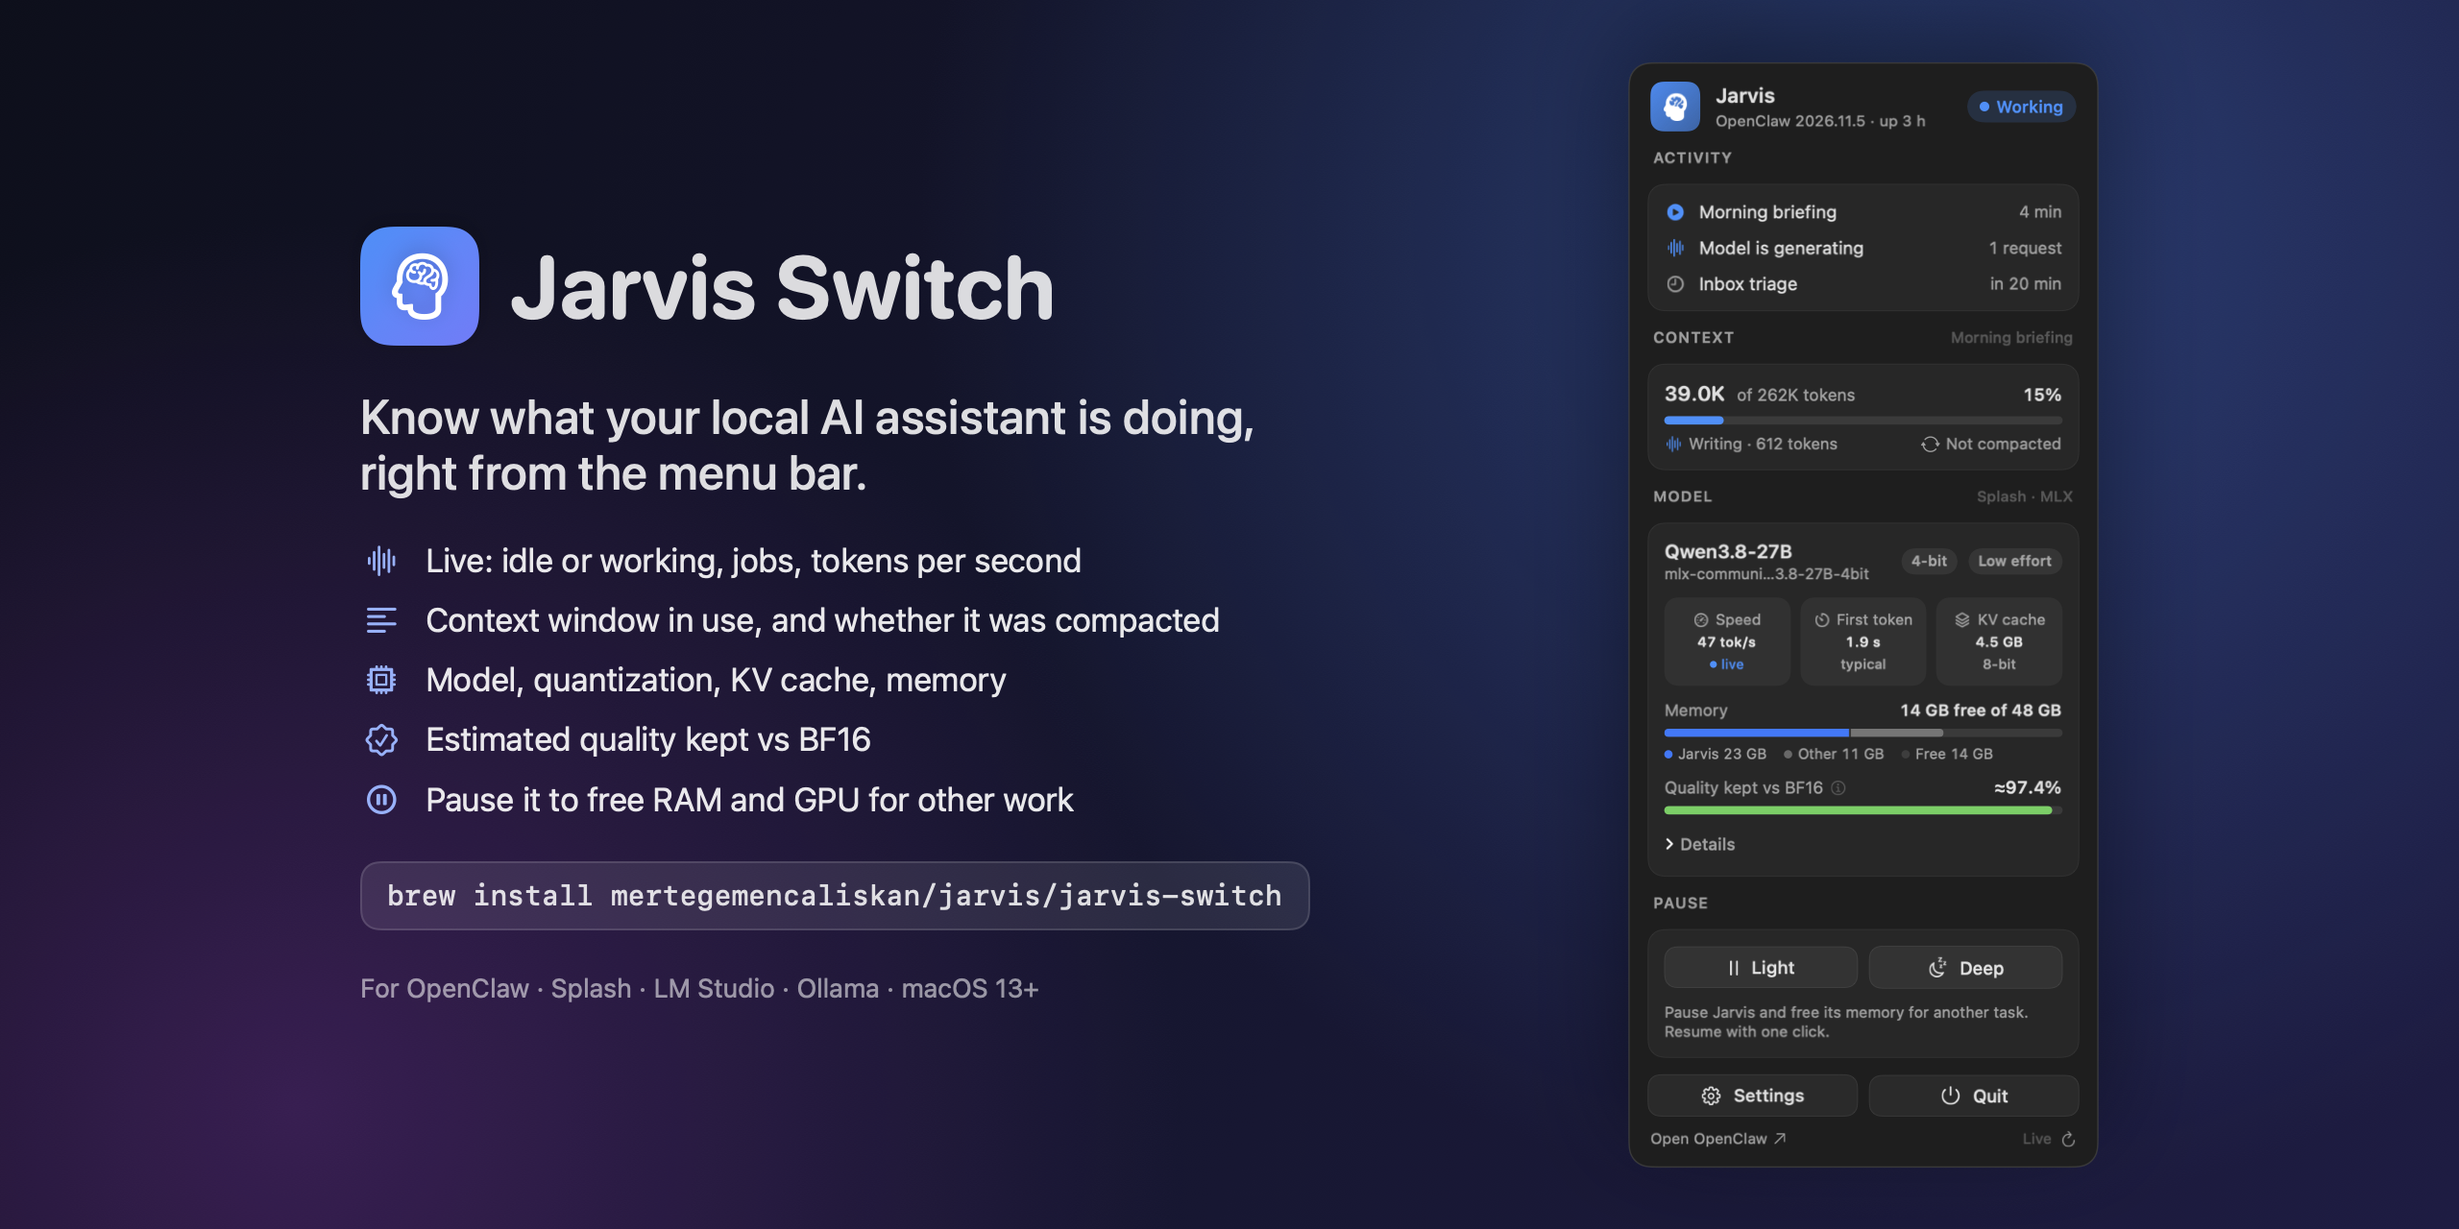
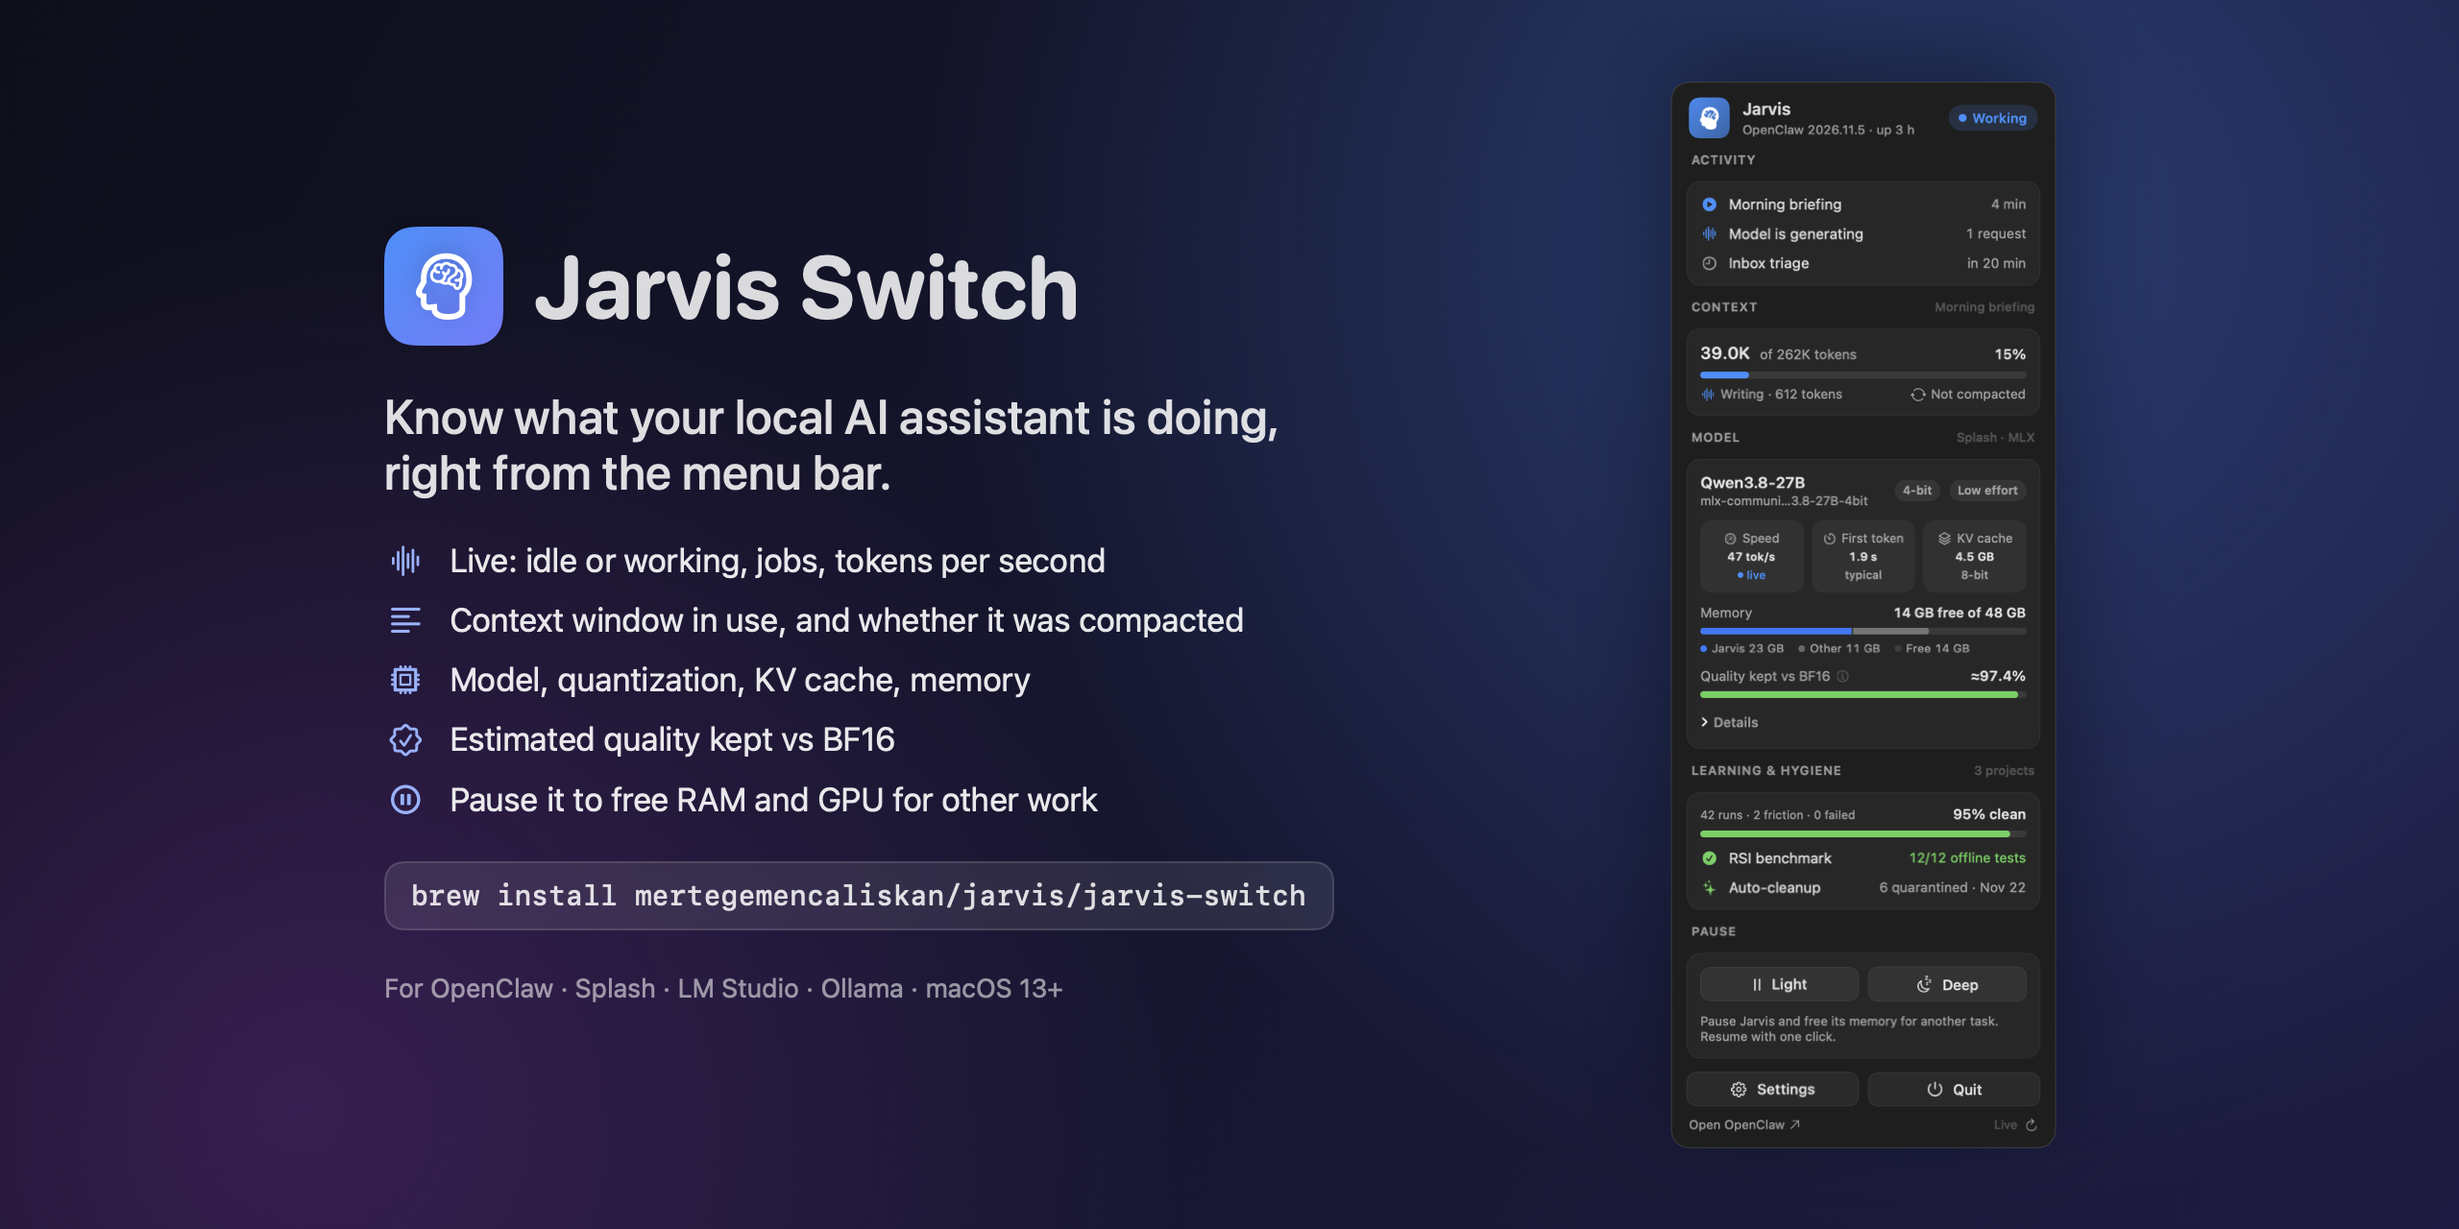
Add native Learning & Hygiene card to macOS menu-bar panel

diff --git a/Sources/Learning.swift b/Sources/Learning.swift
@@ -1,0 +1,102 @@
+import Foundation
+
+/// Optional 24h learning, benchmark and auto-cleanup summary read from local assistant logs.
+struct LearningStatus: Equatable {
+    var windowHours: Int = 24
+    var totalRuns: Int = 0
+    var cleanPercent: Int = 100
+    var frictionRuns: Int = 0
+    var failedRuns: Int = 0
+    var evalPassed: Int?
+    var evalTotal: Int?
+    var lastCleanupDate: String?
+    var lastCleanupCount: Int = 0
+    var projectsTracked: Int = 0
+}
+
+/// Read-only probe for local learning and hygiene telemetry. Returns nil when logs/run_metrics.jsonl
+/// is absent so standard OpenClaw setups stay clean without extra configuration.
+func probeLearning(metricsDir: String?) -> LearningStatus? {
+    guard let base = metricsDir, !base.isEmpty else { return nil }
+    let fm = FileManager.default
+    let metricsPath = (base as NSString).appendingPathComponent("logs/run_metrics.jsonl")
+    guard fm.fileExists(atPath: metricsPath) else { return nil }
+
+    let cutoffMs = (Date().timeIntervalSince1970 - 24 * 3600) * 1000
+    var total = 0
+    var friction = 0
+    var failed = 0
+
+    if let text = try? String(contentsOfFile: metricsPath, encoding: .utf8) {
+        for raw in text.split(separator: "\n", omittingEmptySubsequences: true) {
+            let trimmed = raw.trimmingCharacters(in: .whitespacesAndNewlines)
+            guard !trimmed.isEmpty,
+                  let rec = parseJSON(Data(trimmed.utf8)) as? [String: Any] else { continue }
+            guard let endMs = num(rec["end_ms"]), endMs >= cutoffMs else { continue }
+            total += 1
+            if (num(rec["friction_score"]) ?? 0) > 0 { friction += 1 }
+            if let reasons = rec["stop_reasons"] as? [String],
+               reasons.contains(where: { $0 == "error" || $0 == "aborted" }) {
+                failed += 1
+            }
+        }
+    }
+
+    var lastDate: String? = nil
+    var lastCount = 0
+    let receiptsPath = (base as NSString).appendingPathComponent("logs/cleanup_receipts.jsonl")
+    if let text = try? String(contentsOfFile: receiptsPath, encoding: .utf8) {
+        let lines = text.split(separator: "\n", omittingEmptySubsequences: true)
+        var byDate: [String: Int] = [:]
+        for raw in lines.suffix(500) {
+            let trimmed = raw.trimmingCharacters(in: .whitespacesAndNewlines)
+            guard !trimmed.isEmpty,
+                  let rec = parseJSON(Data(trimmed.utf8)) as? [String: Any],
+                  let d = rec["date"] as? String, !d.isEmpty else { continue }
+            byDate[d, default: 0] += 1
+        }
+        if let maxDate = byDate.keys.max() {
+            lastDate = maxDate
+            lastCount = byDate[maxDate] ?? 0
+        }
+    }
+
+    var projectsTracked = 0
+    let regPath = (base as NSString).appendingPathComponent("state/cleanup_registry.json")
+    if let data = fm.contents(atPath: regPath),
+       let reg = parseJSON(data) as? [String: Any],
+       let projects = reg["projects"] as? [String: Any] {
+        projectsTracked = projects.count
+    }
+
+    var evalPassed: Int? = nil
+    var evalTotal: Int? = nil
+    let evalPath = (base as NSString).appendingPathComponent("logs/eval_history.jsonl")
+    if let text = try? String(contentsOfFile: evalPath, encoding: .utf8) {
+        let lines = text.split(separator: "\n", omittingEmptySubsequences: true)
+        for raw in lines.suffix(50).reversed() {
+            let trimmed = raw.trimmingCharacters(in: .whitespacesAndNewlines)
+            guard !trimmed.isEmpty,
+                  let rec = parseJSON(Data(trimmed.utf8)) as? [String: Any] else { continue }
+            if (rec["mode"] as? String) == "full", (rec["note"] as? String) != "reverted" {
+                evalPassed = num(rec["passed"]).map(Int.init)
+                evalTotal = num(rec["total"]).map(Int.init)
+                break
+            }
+        }
+    }
+
+    let cleanPercent = total > 0 ? Int((Double(total - friction) * 100.0 / Double(total)).rounded()) : 100
+    return LearningStatus(
+        windowHours: 24,
+        totalRuns: total,
+        cleanPercent: cleanPercent,
+        frictionRuns: friction,
+        failedRuns: failed,
+        evalPassed: evalPassed,
+        evalTotal: evalTotal,
+        lastCleanupDate: lastDate,
+        lastCleanupCount: lastCount,
+        projectsTracked: projectsTracked
+    )
+}

diff --git a/Sources/Panel.swift b/Sources/Panel.swift
@@ -44,6 +44,11 @@ struct PanelView: View {
             }
             SectionHeader(title: "Model", trailing: store.snap.model.reachable ? runtimeShort(store.snap.model.runtime) : nil)
             modelCard
+            if let l = store.snap.learning {
+                SectionHeader(title: "Learning & Hygiene",
+                              trailing: l.projectsTracked > 0 ? "\(l.projectsTracked) projects" : "\(l.windowHours)h")
+                learningCard(l)
+            }
             if store.resolved.offloadConfigured {
                 SectionHeader(title: "Pause")
                 pauseCard
@@ -272,6 +277,54 @@ struct PanelView: View {
         if let h = m.cacheHitRate { DetailRow(label: "Prompt cache", value: String(format: "%.0f%% hits", h * 100)) }
         if let sp = m.speculative { DetailRow(label: "Speculative", value: sp ? "On (draft model)" : "Off") }
         if m.weightsReleased { DetailRow(label: "Weights", value: "Released from memory") }
+    }
+
+    // MARK: learning
+
+    private func learningCard(_ l: LearningStatus) -> some View {
+        Card {
+            VStack(alignment: .leading, spacing: 7) {
+                HStack(alignment: .firstTextBaseline, spacing: 6) {
+                    Text("\(l.totalRuns) runs · \(l.frictionRuns) friction · \(l.failedRuns) failed")
+                        .font(.system(size: 12)).foregroundStyle(.secondary).lineLimit(1).minimumScaleFactor(0.85)
+                    Spacer(minLength: 4)
+                    Text("\(l.cleanPercent)% clean")
+                        .font(.system(size: 12.5, weight: .semibold)).monospacedDigit()
+                }
+                Meter(fraction: Double(l.cleanPercent) / 100, color: learningColor(l.cleanPercent))
+            }
+            if let ep = l.evalPassed, let et = l.evalTotal {
+                let ok = ep == et
+                InfoRow(icon: ok ? "checkmark.circle.fill" : "exclamationmark.triangle.fill",
+                        title: "RSI benchmark",
+                        tint: ok ? .green : .orange,
+                        trailing: "\(ep)/\(et) offline tests",
+                        trailingColor: ok ? .green : .orange)
+            }
+            if let d = l.lastCleanupDate {
+                InfoRow(icon: "sparkles",
+                        title: "Auto-cleanup",
+                        tint: .green,
+                        trailing: "\(l.lastCleanupCount) quarantined · \(shortISODate(d))")
+            }
+        }
+    }
+
+    private func learningColor(_ pct: Int) -> Color {
+        if pct >= 80 { return .green }
+        if pct >= 50 { return .blue }
+        return .orange
+    }
+
+    private func shortISODate(_ iso: String) -> String {
+        let p = DateFormatter()
+        p.locale = Locale(identifier: "en_US_POSIX")
+        p.dateFormat = "yyyy-MM-dd"
+        guard let date = p.date(from: iso) else { return iso }
+        let out = DateFormatter()
+        out.locale = Locale(identifier: "en_US_POSIX")
+        out.dateFormat = "MMM d"
+        return out.string(from: date)
     }
 
     // MARK: pause

diff --git a/Sources/CLI.swift b/Sources/CLI.swift
@@ -12,6 +12,7 @@ func probeOnce(_ r: Resolved, sampleSpeed: Bool = true) -> Snapshot {
     s.model = probeModel(baseURL: active.baseURL, configuredModel: active.alias)
     s.offload = readOffloadState(r.pauseMarker)
     s.memory = systemMemory()
+    s.learning = probeLearning(metricsDir: r.metricsDir)
     s.updatedAt = Date()
     if sampleSpeed && s.model.requests.contains(where: { $0.phase == "decode" }) {
         Thread.sleep(forTimeInterval: 1)
@@ -108,6 +109,21 @@ func statusJSON(name: String, kind: Kind, _ s: Snapshot, offloadConfigured: Bool
         out["memory"] = mm
     }
 
+    if let l = s.learning {
+        var lr: [String: Any] = [
+            "windowHours": l.windowHours,
+            "totalRuns": l.totalRuns,
+            "cleanPercent": l.cleanPercent,
+            "frictionRuns": l.frictionRuns,
+            "failedRuns": l.failedRuns,
+            "projectsTracked": l.projectsTracked,
+        ]
+        if let ep = l.evalPassed { lr["evalPassed"] = ep }
+        if let et = l.evalTotal { lr["evalTotal"] = et }
+        if let d = l.lastCleanupDate { lr["lastCleanupDate"] = d; lr["lastCleanupCount"] = l.lastCleanupCount }
+        out["learning"] = lr
+    }
+
     var off: [String: Any] = ["configured": offloadConfigured, "active": s.offload.active]
     if let v = s.offload.mode { off["mode"] = v }
     if let v = s.offload.purpose { off["purpose"] = v }
@@ -175,6 +191,13 @@ func statusText(name: String, kind: Kind, _ s: Snapshot, offloadConfigured: Bool
         var line = "Memory: \(formatBytes(mem.free)) free of \(formatBytes(mem.total))"
         if let j = m.processFootprint ?? m.memoryInUse { line += " · \(name) \(formatBytes(min(j, mem.used))) · other \(formatBytes(max(0, mem.used - min(j, mem.used))))" }
         out.append(line)
+    }
+    if let l = s.learning {
+        let scope = l.projectsTracked > 0 ? "\(l.windowHours)h · \(l.projectsTracked) projects" : "\(l.windowHours)h"
+        out.append("Learning & Hygiene (\(scope))")
+        out.append("  \(l.totalRuns) runs · \(l.frictionRuns) friction · \(l.failedRuns) failed · \(l.cleanPercent)% clean")
+        if let ep = l.evalPassed, let et = l.evalTotal { out.append("  RSI benchmark: \(ep)/\(et) offline tests") }
+        if let d = l.lastCleanupDate { out.append("  Auto-cleanup: \(l.lastCleanupCount) quarantined · \(d)") }
     }
     if offloadConfigured {
         out.append("Pause: " + (s.offload.active ? "paused" + (s.offload.mode.map { " (\($0))" } ?? "") : "available"))

diff --git a/Sources/Config.swift b/Sources/Config.swift
@@ -25,6 +25,7 @@ struct AppConfig: Codable, Equatable {
     var gatewayURL: String?
     var openclawCLI: String?
     var openclawConfig: String?
+    var metricsDir: String?
     var modelBaseURL: String?
     var dashboardCommand: [String]?
     var offload: OffloadConfig?
@@ -32,7 +33,7 @@ struct AppConfig: Codable, Equatable {
     enum CodingKeys: String, CodingKey {
         case schema = "$schema"
         case name, refreshSeconds, menuBarText, checkForUpdates, gatewayURL, openclawCLI, openclawConfig,
-             modelBaseURL, dashboardCommand, offload
+             metricsDir, modelBaseURL, dashboardCommand, offload
     }
 
     static let path = expandPath("~/.config/jarvis-switch/config.json")
@@ -88,6 +89,7 @@ struct Resolved {
     let gatewayURL: String
     let cli: String?
     let openclawConfigPath: String?
+    let metricsDir: String?
     let primaryModel: String?        // "provider/model"
     let providerBaseURL: String?     // e.g. http://127.0.0.1:8000/v1
     let dashboard: [String]?
@@ -137,13 +139,16 @@ struct Resolved {
             if let u = j(v, "baseUrl") as? String { providers[id] = u }
         }
         let thinking = j(oc, "agents", "defaults", "thinkingDefault") as? String
+        let metricsDir = blank(c.metricsDir).map(expandPath)
+            ?? cfgPath.map { ($0 as NSString).deletingLastPathComponent }
 
         return Resolved(name: blank(c.name) ?? "Jarvis",
                         refreshSeconds: min(max(c.refreshSeconds ?? 1, 1), 3600),
                         menuBarText: c.menuBarText ?? false,
                         checkForUpdates: c.checkForUpdates ?? true,
                         gatewayURL: (gateway ?? "http://127.0.0.1:18789").trimmingCharacters(in: CharacterSet(charactersIn: "/")),
-                        cli: cli, openclawConfigPath: cfgPath, primaryModel: primary, providerBaseURL: base,
+                        cli: cli, openclawConfigPath: cfgPath, metricsDir: metricsDir,
+                        primaryModel: primary, providerBaseURL: base,
                         dashboard: dashboard, offload: c.offload, providers: providers, thinkingDefault: thinking)
     }
 

diff --git a/Sources/Showcase.swift b/Sources/Showcase.swift
@@ -48,6 +48,9 @@ func demoSnapshot() -> Snapshot {
                     contextTokens: 262_144, compactions: 1, updatedAt: now.addingTimeInterval(-600)),
     ]
     s.memory = SystemMemory(total: 51_539_607_552, used: 36.4e9)
+    s.learning = LearningStatus(windowHours: 24, totalRuns: 42, cleanPercent: 95, frictionRuns: 2, failedRuns: 0,
+                                evalPassed: 12, evalTotal: 12, lastCleanupDate: "2026-11-22", lastCleanupCount: 6,
+                                projectsTracked: 3)
     s.active = ActiveModel(alias: "local/assistant_low", baseURL: nil, effort: "low", fromSession: true)
     s.updatedAt = now
     return s
@@ -159,8 +162,8 @@ struct HeroView: View {
                     .background(Color(nsColor: .windowBackgroundColor))
                     .clipShape(RoundedRectangle(cornerRadius: 16, style: .continuous))
                     .overlay(RoundedRectangle(cornerRadius: 16, style: .continuous).strokeBorder(Color.white.opacity(0.12), lineWidth: 1))
-                    .scaleEffect(0.72)
-                    .frame(width: 245, height: 600)
+                    .scaleEffect(0.59)
+                    .frame(width: 220, height: 600)
                     .shadow(color: .black.opacity(0.45), radius: 30, y: 16)
             }
             .padding(.horizontal, 70)

diff --git a/Sources/Store.swift b/Sources/Store.swift
@@ -9,6 +9,7 @@ struct Snapshot {
     var sessions: [SessionInfo] = []
     var active: ActiveModel?
     var memory: SystemMemory?
+    var learning: LearningStatus?
     /// Tokens per second measured between the last two refreshes while the model was writing.
     var liveTokensPerSecond: Double?
     var updatedAt = Date.distantPast
@@ -212,7 +213,10 @@ final class Store: ObservableObject {
             var s = previous
             s.gateway = probeGateway(cfg.gatewayURL, withReadiness: wantReady)
             if !wantReady { s.gateway.ready = previous.gateway.ready; s.gateway.failing = previous.gateway.failing }
-            if wantJobs { s.activity = s.gateway.live ? probeActivity(cli: cfg.cli, env: cfg.cliEnv) : ActivityStatus() }
+            if wantJobs {
+                s.activity = s.gateway.live ? probeActivity(cli: cfg.cli, env: cfg.cliEnv) : ActivityStatus()
+                s.learning = probeLearning(metricsDir: cfg.metricsDir)
+            }
             if wantStore, s.gateway.live { storePath = sessionStorePath(cli: cfg.cli, env: cfg.cliEnv) }
             s.sessions = storePath.flatMap { readSessions($0) } ?? []
             let active = activeModel(s.sessions, cfg)

diff --git a/CHANGELOG.md b/CHANGELOG.md
@@ -1,5 +1,10 @@
 # Changelog
 
+## 0.5.1 (2026-11-22)
+- Added the native **Learning & Hygiene** section directly to the macOS menu-bar panel (and `--status` / `--status --json`), matching the iOS/mobile companion: shows 24h clean-run rate, friction/failure counts, offline RSI benchmark pass rate, tracked projects, and latest auto-cleanup quarantine receipt.
+- Auto-detects `logs/run_metrics.jsonl` inside the configured `openclawConfig` directory (with an optional `metricsDir` override in `~/.config/jarvis-switch/config.json`) and stays hidden automatically on standard OpenClaw setups.
+- Refreshed light/dark and hero screenshots to include the Learning & Hygiene card.
+
 ## 0.5.0 (2026-11-22)
 - Read-only **Mobile companion** (`mobile/` + `--companion-stream`): view live status, context, model metrics, and full schedule from your phone on your local LAN or Tailnet, protected by a per-install viewer key / HttpOnly cookie or Tailscale identity header (`mobile/install.sh`).
 - Shared menu-bar model sample (`CompanionModelSample`) so the mobile companion reuses the menu bar's live reading without double-probing your model server.
